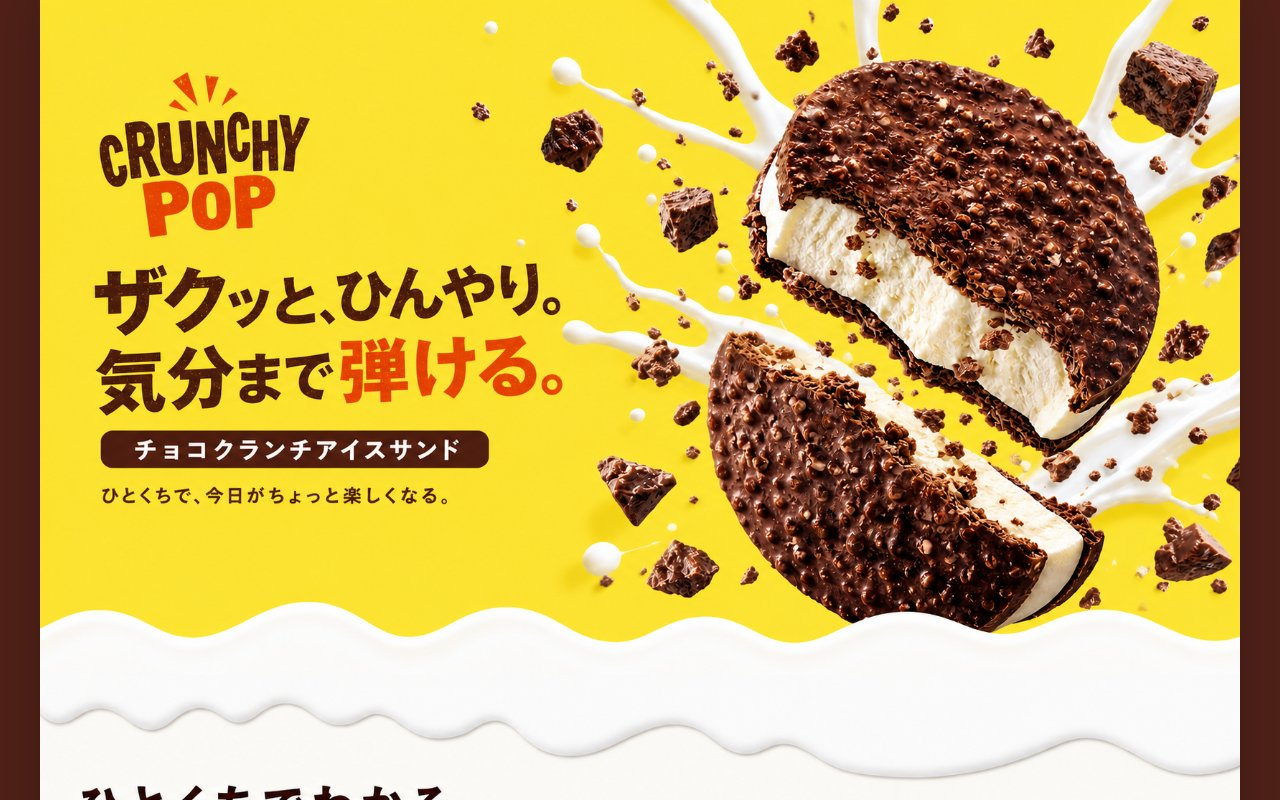
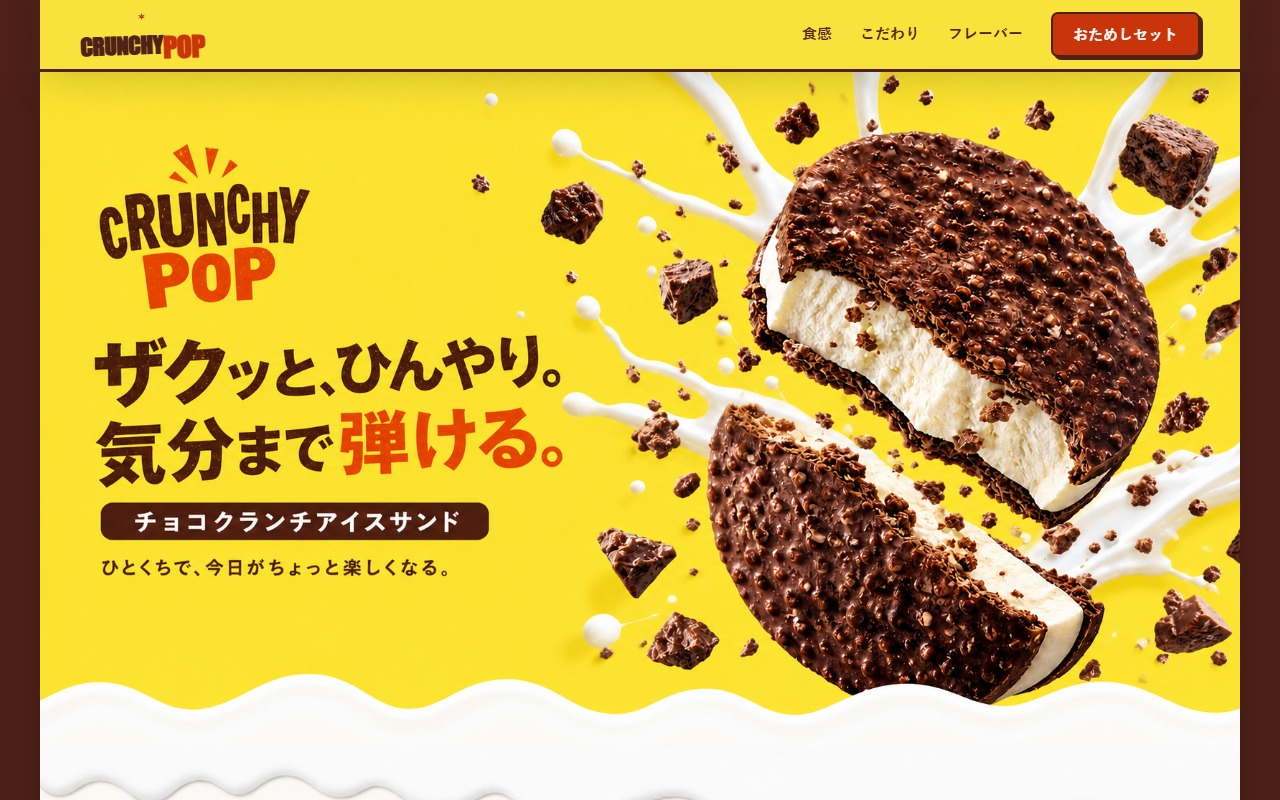
CRUNCHY POP LPにヘッダーを追加

diff --git a/portfolio/crunchy-pop-ice-sand-lp/lp/style.css b/portfolio/crunchy-pop-ice-sand-lp/lp/style.css
@@ -1,7 +1,23 @@
 :root { color-scheme: light; background: #4f2118; }
 * { box-sizing: border-box; }
 html { scroll-behavior: smooth; }
-body { margin: 0; background: #4f2118; }
+body { margin: 0; background: #4f2118; font-family: Arial, "Hiragino Kaku Gothic ProN", "Yu Gothic", sans-serif; }
+.site-header { position: sticky; top: 0; z-index: 20; width: 100%; background: #4f2118; }
+.header-inner { width: min(100%, 1200px); min-height: 72px; margin: 0 auto; padding: 0 40px; display: flex; align-items: center; justify-content: space-between; gap: 32px; background: rgb(255 232 61 / 97%); border-bottom: 3px solid #4f2118; box-shadow: 0 0 48px rgb(0 0 0 / 22%); backdrop-filter: blur(10px); }
+.header-logo { position: relative; display: inline-flex; min-height: 52px; align-items: flex-end; color: #4f2118; font-family: Impact, "Arial Black", sans-serif; font-weight: 900; line-height: .84; letter-spacing: -.035em; text-decoration: none; transform: rotate(-2deg); }
+.header-logo::before { content: ""; position: absolute; top: 4px; left: 50%; width: 7px; height: 7px; background: #c9340a; clip-path: polygon(50% 0, 62% 36%, 100% 26%, 72% 54%, 100% 78%, 62% 68%, 50% 100%, 38% 68%, 0 78%, 28% 54%, 0 26%, 38% 36%); transform: translateX(-50%); }
+.header-logo-crunchy { padding-bottom: 6px; font-size: 23px; }
+.header-logo-pop { color: #c9340a; font-size: 28px; }
+.desktop-nav { display: flex; align-items: center; gap: 28px; }
+.desktop-nav a, .mobile-nav a { color: #4f2118; font-size: 15px; font-weight: 700; line-height: 1.4; text-decoration: none; }
+.desktop-nav > a:not(.header-cta) { padding: 12px 0; border-bottom: 2px solid transparent; transition: border-color 160ms ease; }
+.desktop-nav > a:not(.header-cta):hover { border-color: #4f2118; }
+.header-cta { display: inline-flex; min-height: 44px; padding: 10px 20px; align-items: center; justify-content: center; color: #fff !important; background: #c9340a; border: 2px solid #4f2118; border-radius: 7px; box-shadow: 3px 3px 0 #4f2118; transition: transform 160ms ease, box-shadow 160ms ease; }
+.header-cta:hover { transform: translate(-1px, -1px); box-shadow: 4px 4px 0 #4f2118; }
+.header-cta:active { transform: translate(2px, 2px); box-shadow: 1px 1px 0 #4f2118; }
+.menu-button, .mobile-nav { display: none; }
+.site-header a:focus-visible, .menu-button:focus-visible, .mobile-nav a:focus-visible { outline: 3px solid #1672ec; outline-offset: 4px; }
+.lp-section[id], .lp-cta-section[id] { scroll-margin-top: 72px; }
 .lp-shell { width: 100%; max-width: 1200px; margin: 0 auto; overflow: hidden; background: #ffe83d; box-shadow: 0 0 48px rgb(0 0 0 / 22%); }
 .lp-section { display: block; line-height: 0; }
 .lp-section img { display: block; width: 100%; height: auto; }
@@ -25,9 +41,27 @@ body { margin: 0; background: #4f2118; }
 @media (max-width: 767px) {
   body, .lp-shell { background: #ffe83d; }
   .lp-shell { max-width: 768px; box-shadow: none; }
+  .site-header { background: #ffe83d; }
+  .header-inner { width: 100%; min-height: 64px; padding: 0 20px; box-shadow: none; }
+  .header-logo { min-height: 48px; }
+  .header-logo-crunchy { font-size: 20px; }
+  .header-logo-pop { font-size: 25px; }
+  .desktop-nav { display: none; }
+  .menu-button { display: grid; width: 44px; height: 44px; padding: 10px; place-content: center; gap: 5px; color: #4f2118; background: transparent; border: 2px solid #4f2118; border-radius: 8px; cursor: pointer; }
+  .menu-button span { display: block; width: 20px; height: 2px; background: currentColor; transition: transform 200ms ease, opacity 200ms ease; }
+  .menu-button[aria-expanded="true"] span:nth-child(1) { transform: translateY(7px) rotate(45deg); }
+  .menu-button[aria-expanded="true"] span:nth-child(2) { opacity: 0; }
+  .menu-button[aria-expanded="true"] span:nth-child(3) { transform: translateY(-7px) rotate(-45deg); }
+  .mobile-nav { position: fixed; inset: 64px 0 auto; z-index: 19; padding: 24px 20px 32px; background: #ffe83d; border-bottom: 3px solid #4f2118; box-shadow: 0 12px 24px rgb(79 33 24 / 20%); }
+  .mobile-nav.is-open { display: grid; gap: 8px; }
+  .mobile-nav a { min-height: 48px; display: flex; align-items: center; justify-content: center; }
+  .mobile-nav .header-cta { margin-top: 8px; }
+  body.menu-open { overflow: hidden; }
+  .lp-section[id], .lp-cta-section[id] { scroll-margin-top: 64px; }
   .trial-set-button { right: 7.9%; bottom: 8.75%; width: 84.2%; height: 5.1%; border-radius: 8px; }
 }
 @media (prefers-reduced-motion: reduce) {
   html { scroll-behavior: auto; }
   .trial-set-button { transition: none; }
+  .header-cta, .menu-button span { transition: none; }
 }

diff --git a/portfolio/crunchy-pop-ice-sand-lp/lp/index.html b/portfolio/crunchy-pop-ice-sand-lp/lp/index.html
@@ -9,18 +9,39 @@
   <link rel="stylesheet" href="./style.css">
 </head>
 <body>
-  <main class="lp-shell">
+  <header class="site-header">
+    <div class="header-inner">
+      <a class="header-logo" href="#top" aria-label="CRUNCHY POP ページ上部へ"><span class="header-logo-crunchy">CRUNCHY</span><span class="header-logo-pop">POP</span></a>
+      <nav class="desktop-nav" aria-label="メインナビゲーション">
+        <a href="#texture">食感</a>
+        <a href="#process">こだわり</a>
+        <a href="#lineup">フレーバー</a>
+        <a class="header-cta" href="#trial">おためしセット</a>
+      </nav>
+      <button class="menu-button" type="button" aria-label="メニューを開く" aria-expanded="false" aria-controls="mobile-nav">
+        <span></span><span></span><span></span>
+      </button>
+    </div>
+  </header>
+  <nav class="mobile-nav" id="mobile-nav" aria-label="スマートフォン用メニュー" aria-hidden="true">
+    <a href="#texture">食感</a>
+    <a href="#process">こだわり</a>
+    <a href="#lineup">フレーバー</a>
+    <a class="header-cta" href="#trial">おためしセット</a>
+  </nav>
+  <main class="lp-shell" id="top">
     <h1 class="sr-only">CRUNCHY POP チョコクランチアイスサンド</h1>
     <picture class="lp-section"><source media="(max-width: 767px)" srcset="./images/mobile/01-hero.png"><img src="./images/01-hero.png" alt="ザクッと、ひんやり。気分まで弾ける。" fetchpriority="high"></picture>
-    <picture class="lp-section"><source media="(max-width: 767px)" srcset="./images/mobile/02-texture.png"><img src="./images/02-texture.png" alt="ひとくちでわかる、3つの食感。" loading="lazy"></picture>
-    <picture class="lp-section"><source media="(max-width: 767px)" srcset="./images/mobile/03-process.png"><img src="./images/03-process.png" alt="おいしい音まで、ていねいにつくる。" loading="lazy"></picture>
+    <picture class="lp-section" id="texture"><source media="(max-width: 767px)" srcset="./images/mobile/02-texture.png"><img src="./images/02-texture.png" alt="ひとくちでわかる、3つの食感。" loading="lazy"></picture>
+    <picture class="lp-section" id="process"><source media="(max-width: 767px)" srcset="./images/mobile/03-process.png"><img src="./images/03-process.png" alt="おいしい音まで、ていねいにつくる。" loading="lazy"></picture>
     <picture class="lp-section" id="lineup"><source media="(max-width: 767px)" srcset="./images/mobile/04-lineup.png"><img src="./images/04-lineup.png" alt="選ぶたび、気分が弾ける。" loading="lazy"></picture>
     <picture class="lp-section"><source media="(max-width: 767px)" srcset="./images/mobile/05-limited.png"><img src="./images/05-limited.png" alt="この夏だけの、ソーダレモンがはじける。" loading="lazy"></picture>
     <picture class="lp-section"><source media="(max-width: 767px)" srcset="./images/mobile/06-arrange.png"><img src="./images/06-arrange.png" alt="ひと手間で、もっとおいしい。" loading="lazy"></picture>
-    <section class="lp-section lp-cta-section" aria-label="おためしセットのご案内">
+    <section class="lp-section lp-cta-section" id="trial" aria-label="おためしセットのご案内">
       <picture><source media="(max-width: 767px)" srcset="./images/mobile/07-story-cta.png"><img src="./images/07-story-cta.png" alt="ザクザクの音から、楽しい時間をつくりたい。3種おためしセット1,980円（税込・送料無料）。" loading="lazy"></picture>
       <a class="trial-set-button" href="#lineup" aria-label="おためしセットを見る"></a>
     </section>
   </main>
+  <script src="./script.js"></script>
 </body>
 </html>

diff --git a/portfolio/crunchy-pop-ice-sand-lp/lp/script.js b/portfolio/crunchy-pop-ice-sand-lp/lp/script.js
@@ -1,0 +1,36 @@
+const menuButton = document.querySelector('.menu-button');
+const mobileNav = document.querySelector('.mobile-nav');
+
+const closeMenu = () => {
+  menuButton.setAttribute('aria-expanded', 'false');
+  menuButton.setAttribute('aria-label', 'メニューを開く');
+  mobileNav.setAttribute('aria-hidden', 'true');
+  mobileNav.classList.remove('is-open');
+  document.body.classList.remove('menu-open');
+};
+
+menuButton.addEventListener('click', () => {
+  const willOpen = menuButton.getAttribute('aria-expanded') !== 'true';
+  if (!willOpen) {
+    closeMenu();
+    return;
+  }
+  menuButton.setAttribute('aria-expanded', 'true');
+  menuButton.setAttribute('aria-label', 'メニューを閉じる');
+  mobileNav.setAttribute('aria-hidden', 'false');
+  mobileNav.classList.add('is-open');
+  document.body.classList.add('menu-open');
+});
+
+mobileNav.querySelectorAll('a').forEach((link) => link.addEventListener('click', closeMenu));
+
+document.addEventListener('keydown', (event) => {
+  if (event.key === 'Escape') {
+    closeMenu();
+    menuButton.focus();
+  }
+});
+
+window.addEventListener('resize', () => {
+  if (window.innerWidth > 767) closeMenu();
+});

diff --git a/exports/reviews/crunchy-pop-ice-sand-lp-uiux.md b/exports/reviews/crunchy-pop-ice-sand-lp-uiux.md
@@ -7,7 +7,7 @@
 
 重大 0件 / 要改善 0件 / 参考 4件
 
-ページ高 5213px（6.2画面分） / テキストブロック 1 / 操作要素 1 / 画像 7
+ページ高 5277px（6.3画面分） / テキストブロック 3 / 操作要素 3 / 画像 7
 
 ### 🔵 参考 [コンバージョン] CTA候補 0個（うちファーストビュー内 0個）
 
@@ -15,22 +15,22 @@
 
 - `document` — なし
 
-### 🔵 参考 [コンバージョン] 追従CTAなし。長いLPでは画面下固定のCTAで離脱前の受け皿を作れる
+### 🔵 参考 [コンバージョン] 追従要素あり（1個）
 
 該当 1件
 
-- `document` — 
+- `html > body > header.site-header` — "CRUNCHYPOP 食感 こだわり フレーバー おためしセット"
 
 ### 🔵 参考 [パフォーマンス] width/height または aspect-ratio がなく、読み込み時にレイアウトがずれる（CLS）
 
 該当 7件
 
-- `body > main.lp-shell > picture.lp-section > img` — 01-hero.png
-- `body > main.lp-shell > picture.lp-section > img` — 02-texture.png
-- `body > main.lp-shell > picture.lp-section > img` — 03-process.png
+- `main#top > picture.lp-section > img` — 01-hero.png
+- `picture#texture > img` — 02-texture.png
+- `picture#process > img` — 03-process.png
 - `picture#lineup > img` — 04-lineup.png
-- `body > main.lp-shell > picture.lp-section > img` — 05-limited.png
-- `body > main.lp-shell > picture.lp-section > img` — 06-arrange.png
+- `main#top > picture.lp-section > img` — 05-limited.png
+- `main#top > picture.lp-section > img` — 06-arrange.png
 
 ### 🔵 参考 [情報設計] og:image がない。SNSシェア時にサムネイルが出ない
 
@@ -42,7 +42,7 @@
 
 重大 0件 / 要改善 0件 / 参考 3件
 
-ページ高 4727px（5.3画面分） / テキストブロック 1 / 操作要素 1 / 画像 7
+ページ高 4799px（5.3画面分） / テキストブロック 7 / 操作要素 6 / 画像 7
 
 ### 🔵 参考 [コンバージョン] CTA候補 0個（うちファーストビュー内 0個）
 
@@ -54,12 +54,12 @@
 
 該当 7件
 
-- `body > main.lp-shell > picture.lp-section > img` — 01-hero.png
-- `body > main.lp-shell > picture.lp-section > img` — 02-texture.png
-- `body > main.lp-shell > picture.lp-section > img` — 03-process.png
+- `main#top > picture.lp-section > img` — 01-hero.png
+- `picture#texture > img` — 02-texture.png
+- `picture#process > img` — 03-process.png
 - `picture#lineup > img` — 04-lineup.png
-- `body > main.lp-shell > picture.lp-section > img` — 05-limited.png
-- `body > main.lp-shell > picture.lp-section > img` — 06-arrange.png
+- `main#top > picture.lp-section > img` — 05-limited.png
+- `main#top > picture.lp-section > img` — 06-arrange.png
 
 ### 🔵 参考 [情報設計] og:image がない。SNSシェア時にサムネイルが出ない
 
